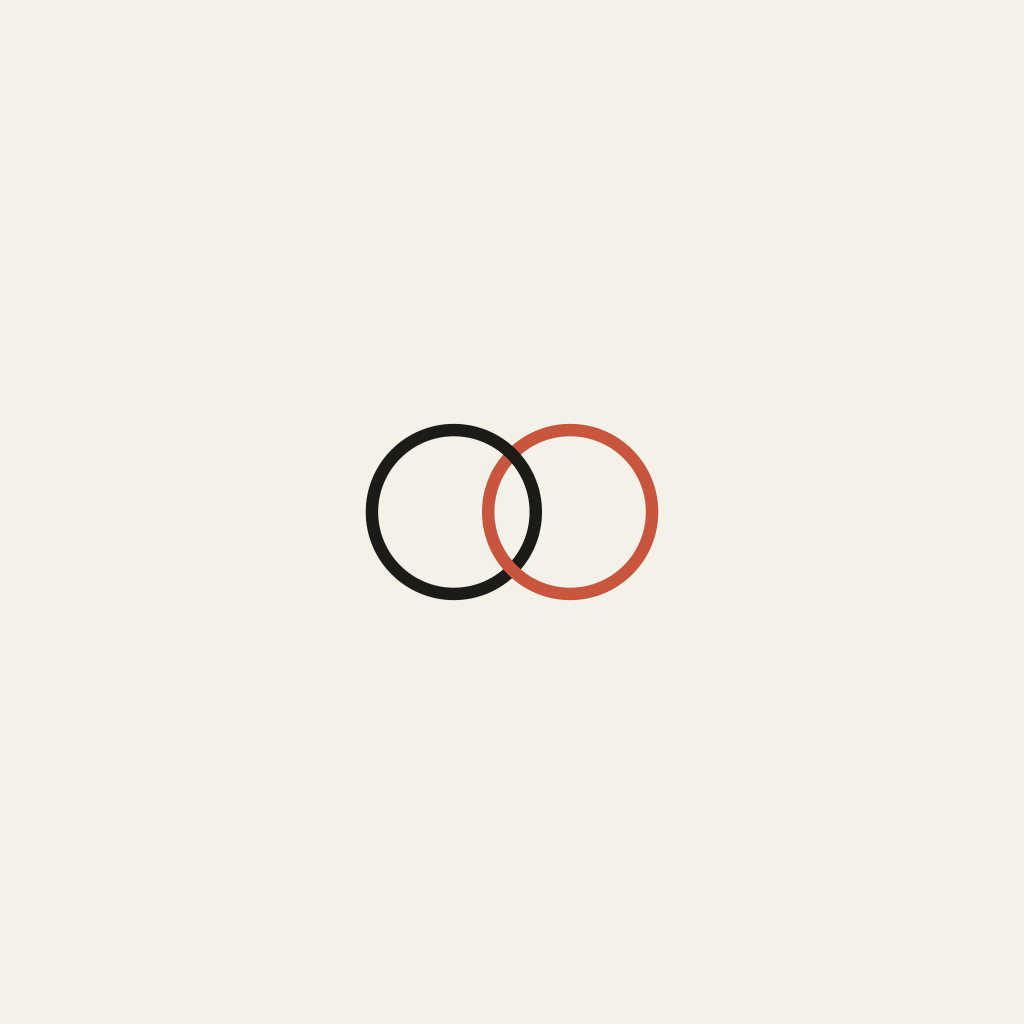
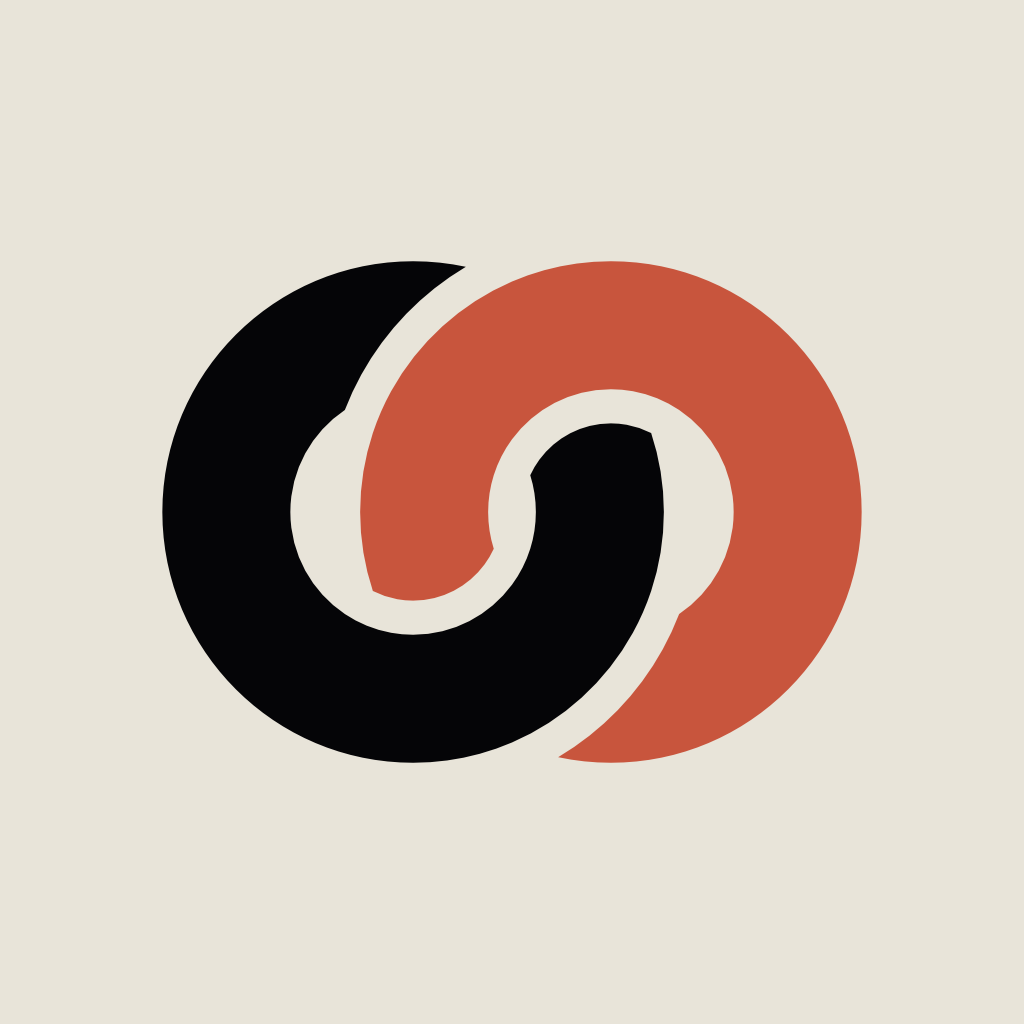
Adopt the redrawn mark across the repo (#92)
* chore(brand): adopt the redrawn mark across the repo

* feat(web): serve the mark from the bucket, and unfurl with it

Changed region(s): [[0.1562, 0.25, 0.8438, 0.75]]

diff --git a/apps/web/src/routes/__root.tsx b/apps/web/src/routes/__root.tsx
@@ -2,6 +2,7 @@
 
 import type { QueryClient } from "@tanstack/react-query";
 import { Agentation } from "agentation";
+import { BRAND_ASSETS } from "~/brand";
 import {
   ClientOnly,
   HeadContent,
@@ -26,7 +27,12 @@ export const Route = createRootRouteWithContext<{
 }>()({
   head: () => ({
     links: [
-      { rel: "icon", href: "/favicon.svg", type: "image/svg+xml" },
+      {
+        href: `${BRAND_ASSETS}/favicon.svg`,
+        rel: "icon",
+        type: "image/svg+xml",
+      },
+      { href: `${BRAND_ASSETS}/apple-touch-icon.png`, rel: "apple-touch-icon" },
       { rel: "stylesheet", href: tokensCss },
       { rel: "stylesheet", href: globalCss },
     ],
@@ -45,6 +51,12 @@ export const Route = createRootRouteWithContext<{
         name: "description",
         content: "Musubi — the open, self-hostable shared calendar.",
       },
+      // The app is mostly behind a sign-in, but /login, /invite, /e, /s,
+      // /find-a-time and /new-event are not — and those are exactly the URLs
+      // people paste to each other. Set here so every one of them unfurls with
+      // something; a route that wants its own image overrides this key.
+      { content: `${BRAND_ASSETS}/og.png`, property: "og:image" },
+      { content: "summary_large_image", name: "twitter:card" },
     ],
   }),
   errorComponent: (props) => (

diff --git a/apps/web/src/brand.ts b/apps/web/src/brand.ts
@@ -1,0 +1,14 @@
+/**
+ * Where the brand art is served from.
+ *
+ * The bucket rather than `public/`, so redrawing the mark reaches a running
+ * deployment without one. Object names are stable; only their bytes change.
+ *
+ * Link the bucket directly and not the Zipline URL in front of it — Zipline
+ * serves the same objects with `cache-control: max-age=14400`, so a swapped
+ * file would take four hours to appear.
+ *
+ * One constant on purpose: when self-hosters can upload their own mark, this is
+ * the single thing that has to become configurable.
+ */
+export const BRAND_ASSETS = "https://frgtn-assets.fsn1.your-objectstorage.com";
